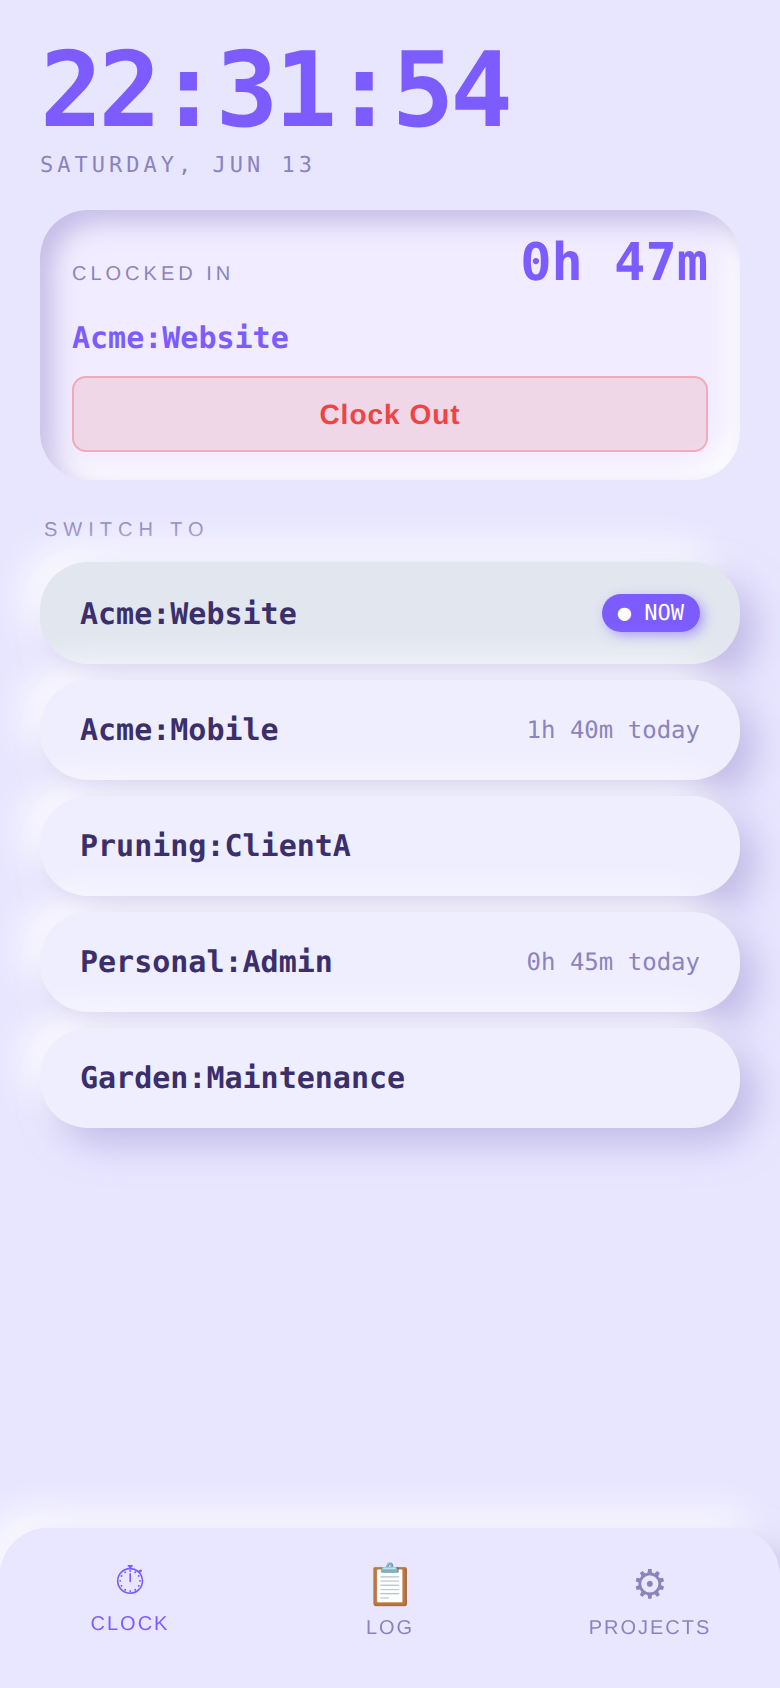
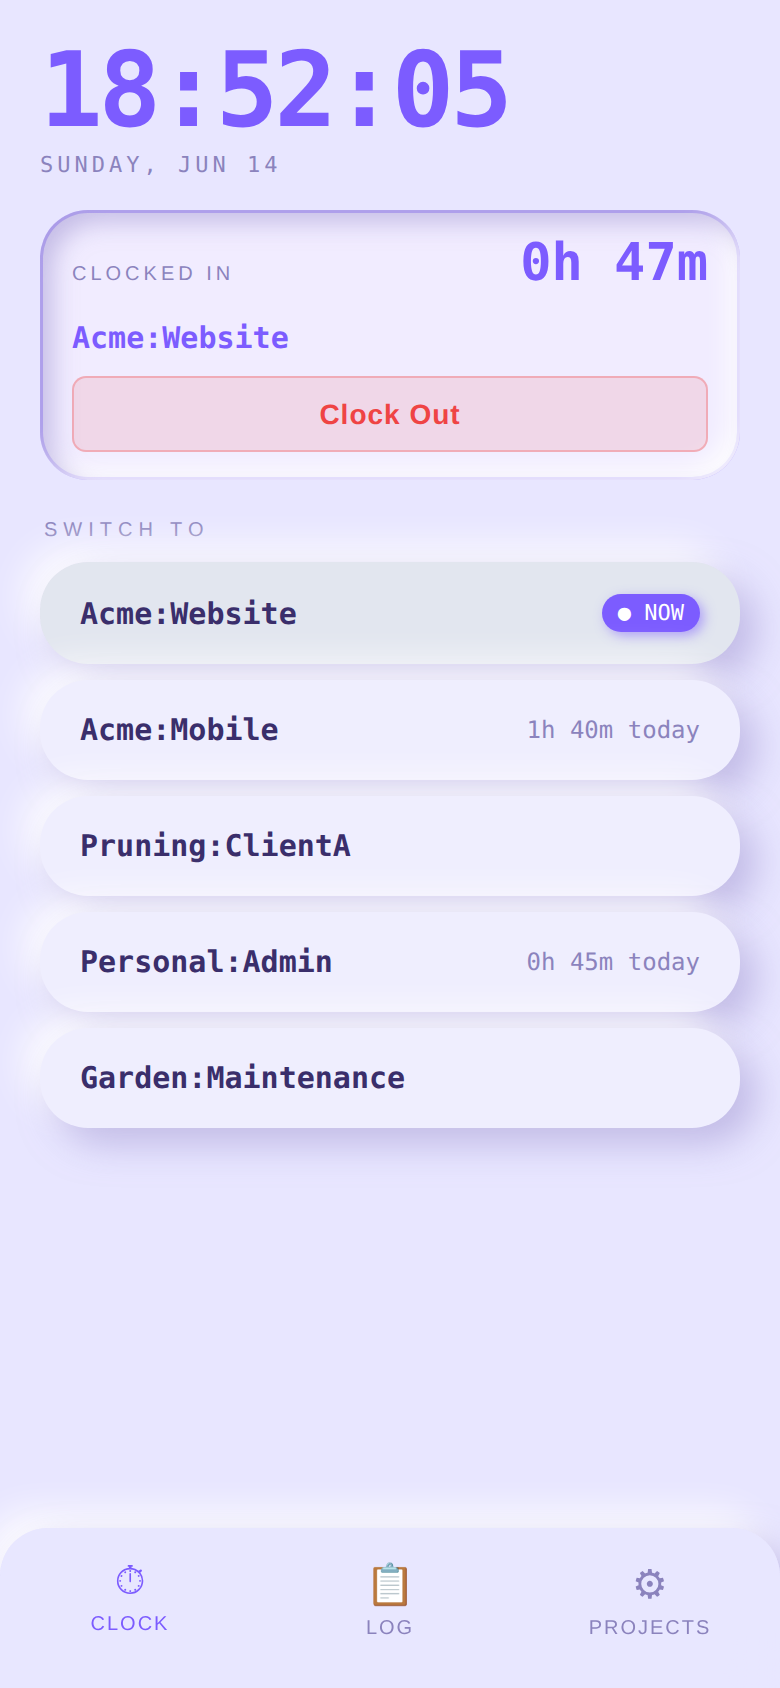
Soft Clay light: add matching inset accent ring; clay animation explorations
Give clay-light the same inset edge ring (--inset-edge rgba(124,92,255,.55)),
softened by its bright highlight. Adds capture-anim.mjs and three active-card
animation prototypes (depth breathe, ring breathe, inner accent glow) for
review; no animation wired into source yet.

diff --git a/src/index.css b/src/index.css
@@ -471,7 +471,7 @@ html, body { background: var(--bg); }
   --lime:#7c5cff; --lime-dim:#b9aaff; --lime-bg:rgba(124,92,255,0.06);
   --lime-badge-bg:#7c5cff; --lime-badge-border:transparent; --amber:#ef6aa8;
   --neu-d:rgba(160,150,210,0.55); --neu-l:rgba(255,255,255,0.9); --ink-on-accent:#ffffff; --accent-glow:rgba(124,92,255,0.5);
-  --inset-edge:transparent;
+  --inset-edge:rgba(124,92,255,0.55);
 }
 
 /* ── Daily-mode preview list (Projects → Appearance) ── */

diff --git a/design-preview/NOTES.md b/design-preview/NOTES.md
@@ -16,7 +16,8 @@
   invisible highlight, surface≈bg). Added an **inset accent ring**
   (`inset 0 0 0 1.5px var(--inset-edge)`, `--inset-edge:var(--lime-dim)`) to
   define the edge while keeping the recess; bumped `--neu-l` .05→.07 so the
-  recess actually reads. `clay-light` opts out via `--inset-edge:transparent`.
+  recess actually reads. `clay-light` uses a soft ring too
+  (`--inset-edge:rgba(124,92,255,.55)`), softened by the bright highlight wash.
   The recessed feel comes from the inset shadow *pair* (dark top-left / light
   bottom-right = inverse of raised); the ring only supplies a crisp perimeter.
 - **Indigo · dark** — brighter active-job highlight (glowing edge ring on the
